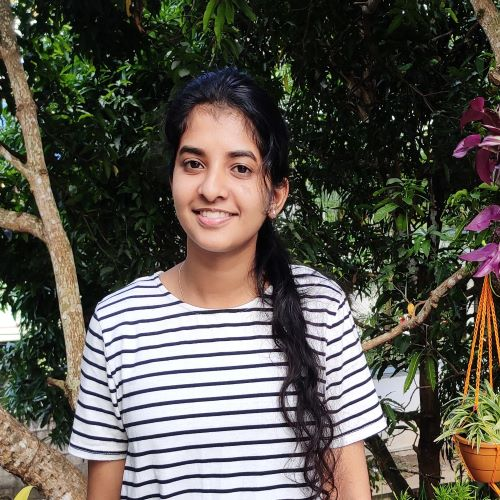
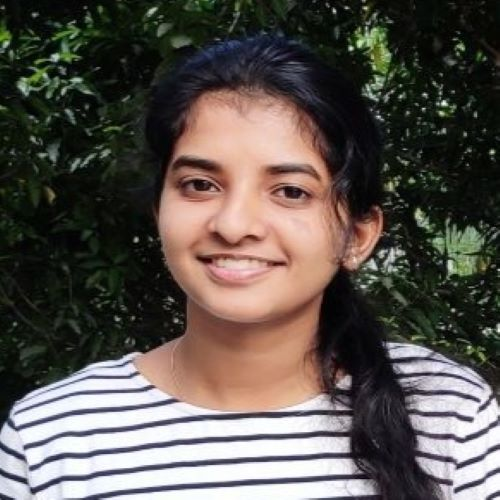
contactus form

diff --git a/index.html b/index.html
@@ -797,9 +797,9 @@
                         <input class="field__input form-control" type="email" id="email" name="email" placeholder="Enter your email"></div>
                   </div>
                   <div class="field">
-                    <div class="field__label">Share your details with us.</div>
+                    <div class="field__label">Your message</div>
                     <div class="field__wrap">
-                        <textarea class="field__textarea form-control" id="message" name="message" placeholder="Enter a topic, like “channel problem...”"></textarea></div>
+                        <textarea class="field__textarea form-control" id="message" name="message" placeholder="Share your details with us"></textarea></div>
                   </div>
                   <button type="submit" class="contact__btn btn btn_orange">Send now</button>
                 </form>

diff --git a/contact.html b/contact.html
@@ -194,7 +194,7 @@
                             <div class="about__post">Angular Developer</div>
                         </div>
                         <div class="about__user">
-                            <div class="about__ava"><img src="img/sruthy.jpg" alt=""></div>
+                            <div class="about__ava"><img src="img/sruthi k.jpg" alt=""></div>
                             <div class="about__name">Sruthi Krishna R</div>
                             <div class="about__post">Front-End Developer</div>
                         </div>
